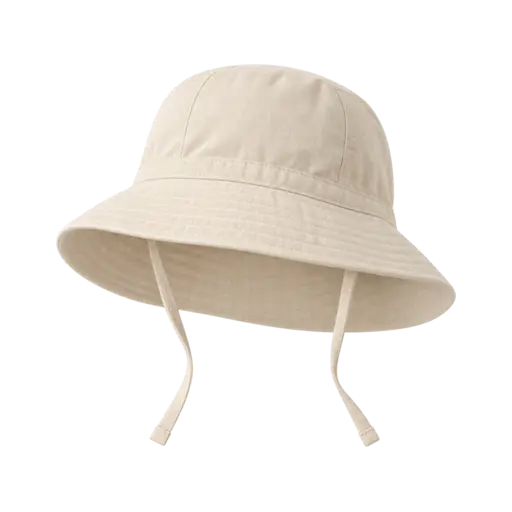
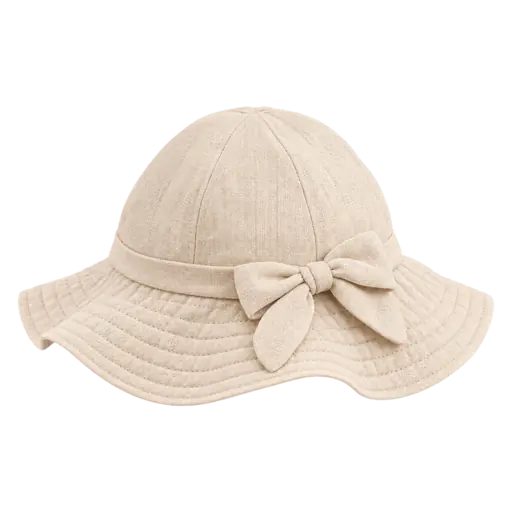
Regenerate clothing assets for hats socks and outerwear

diff --git a/e2e/service-worker-upgrade.spec.js b/e2e/service-worker-upgrade.spec.js
@@ -1,7 +1,7 @@
 import { test, expect } from '@playwright/test';
 
 const OLD_CACHE = 'babywetter-shell-v0.2.0-assets17';
-const NEW_CACHE = 'babywetter-shell-v0.2.0-assets18';
+const NEW_CACHE = 'babywetter-shell-v0.2.0-assets19';
 
 test('Service-Worker-Upgrade ersetzt den vorherigen App-Shell-Cache', async ({ page, context }) => {
   await page.goto('/?demo=1');

diff --git a/sw.js b/sw.js
@@ -1,4 +1,4 @@
-const CACHE_NAME = 'babywetter-shell-v0.2.0-assets18';
+const CACHE_NAME = 'babywetter-shell-v0.2.0-assets19';
 const ASSET_MANIFEST_PATH = '/assets/clothing/manifest.json';
 const VISUAL_MANIFEST_PATH = '/assets/clothing/visual-manifest.json';
 const SHELL = [
